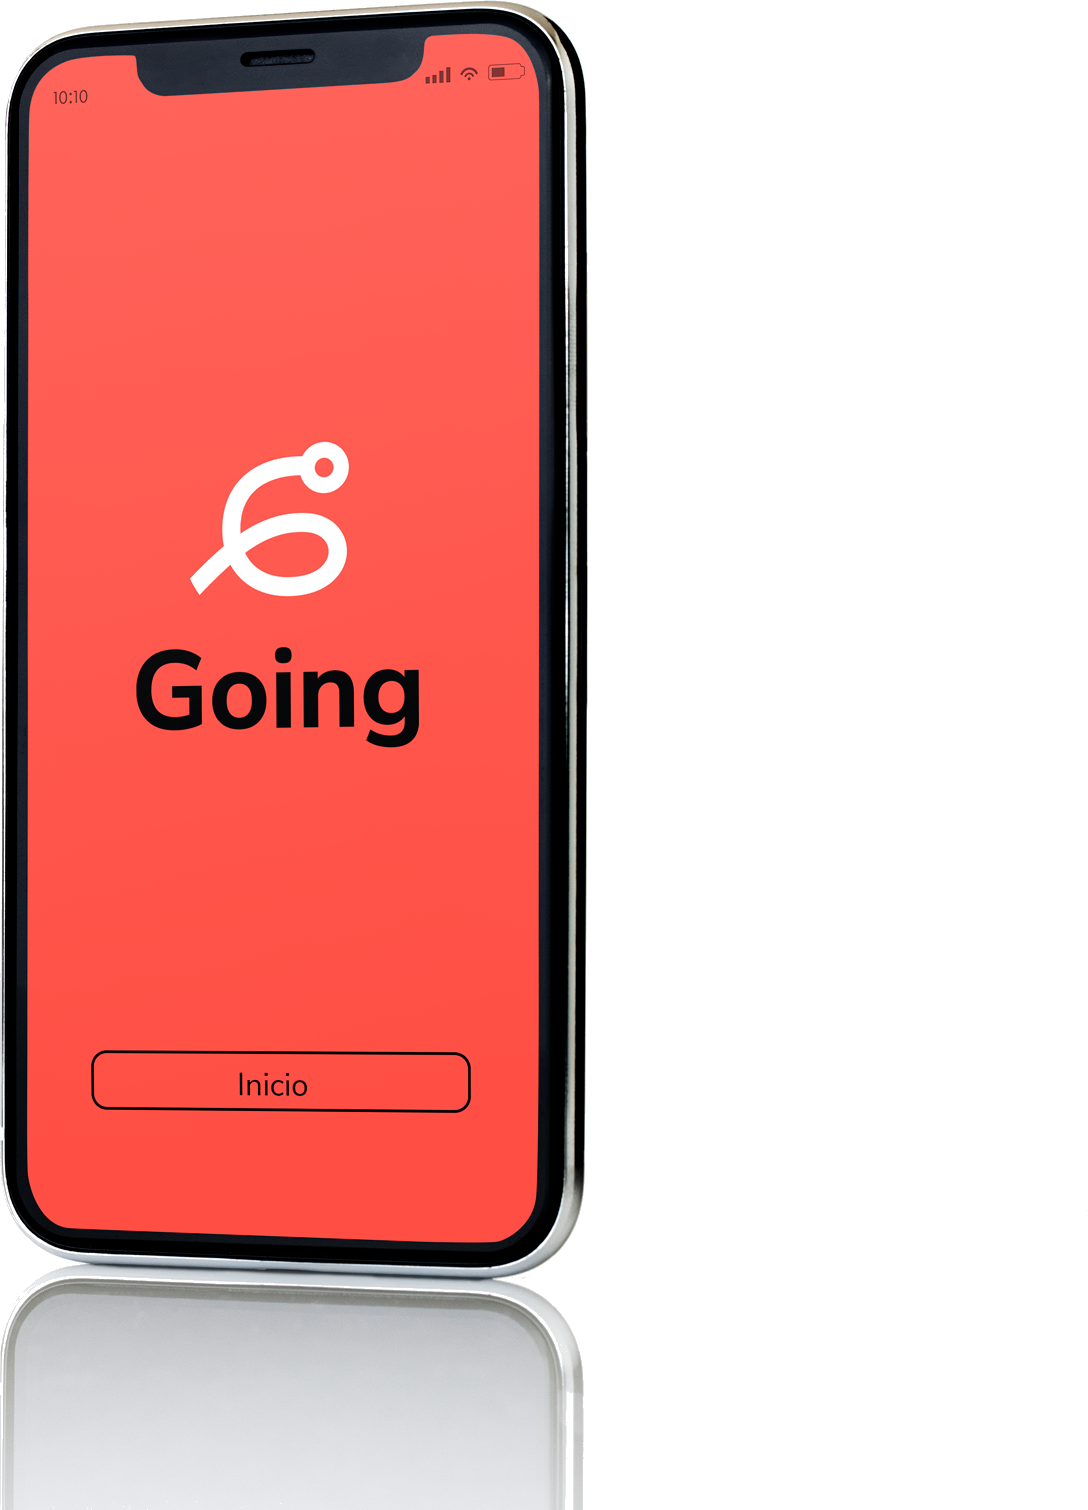
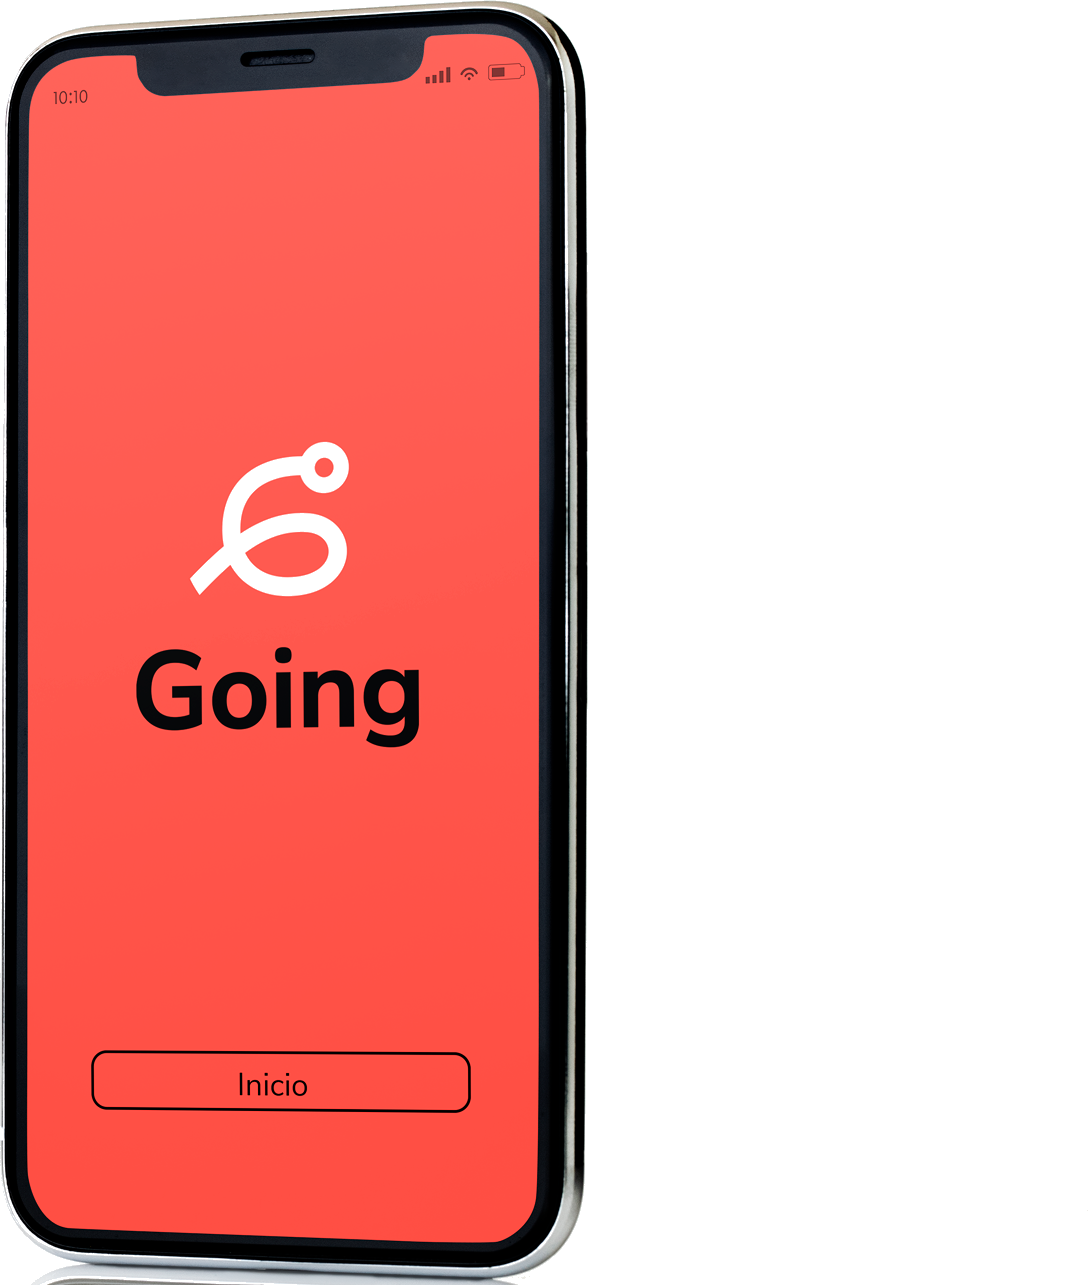
fix(home): quita reflejo del telefono y lo mueve mas a la derecha
- going-phone.png recortado: se elimina el reflejo/espejo inferior que venia
  pegado en la propia imagen (parecia una tapa).
- El telefono se alinea a la derecha (ml-auto + -mr) para quedar sobre el fondo.

https://claude.ai/code/session_01AQUdnWf7ZreZ1ZgKhfSqmn

diff --git a/frontend-webapp/src/app/page.tsx b/frontend-webapp/src/app/page.tsx
@@ -474,13 +474,13 @@ export default function HomePage() {
              en /ride y /envios/cotizar, fuente única.
           */}
           <FadeIn dir="up" delay={0.15} className="w-full max-w-6xl">
-            <div className="grid grid-cols-1 md:grid-cols-[1fr_210px] gap-6 items-center mb-8">
+            <div className="grid grid-cols-1 md:grid-cols-[1fr_230px] gap-6 items-center mb-8">
 
-              {/* Celular pequeño a la derecha de las cajas (sin sombra) */}
+              {/* Celular a la derecha, sobre el fondo (sin reflejo/sombra) */}
               <img
                 src="/images/going-phone.png"
                 alt="App Going App en un celular"
-                className="w-[150px] md:w-[200px] h-auto mx-auto md:order-2"
+                className="w-[160px] md:w-[215px] h-auto ml-auto md:order-2 md:-mr-4"
               />
 
               {/* Las 3 cajas en fila */}